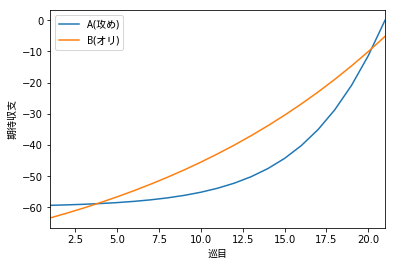
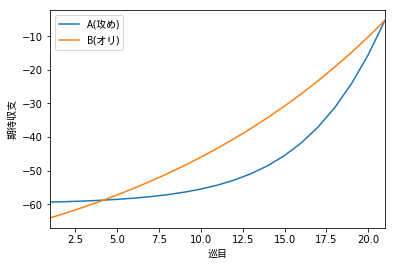
rebuilding site Thu Feb  8 18:52:48 JST 2018

diff --git a/posts/15/index.html b/posts/15/index.html
@@ -70,7 +70,7 @@
                     </h1>
                     <h2 class="headline">
                     Feb 7, 2018 14:09
-                    · 806 words
+                    · 811 words
                     · 2 minute read
                       <span class="tags">
                       
@@ -146,13 +146,13 @@
 <p>\begin{eqnarray}
   C_t &amp;=&amp; \begin{cases}
     r_1 \widetilde{W}_1 + (1 - r_1) \widetilde{p}_1 W_1 + (1 - r_1) (1 - \widetilde{p}_1) s A_t + (1 - r_1) (1 - \widetilde{p}_1) (1 - s) C_{t + 1} &amp; (1 \leq t \lt 21) \\<br />
-    0 &amp; (t = 21)
+    B_t &amp; (t = 21)
   \end{cases}
 \end{eqnarray}</p>
 
-<p>ただし \(w&rsquo;_{0, t+1}\) と \(\widetilde{w}&rsquo;_{0, t+1}\) はテンパイ時のパラメータである。この漸化式を解いて</p>
+<p>ただし \(w&rsquo;_{0, t+1}\) と \(\widetilde{w}&rsquo;_{0, t+1}\) はテンパイ時のパラメータである。この漸化式を解くと</p>
 
-<p>$$C_t = (1 - \phi^{21 - t})\frac{r_1 \widetilde{W}_1 + (1 - r_1) \widetilde{p}_1 W_1 + (1 - r_1) (1 - \widetilde{p}_1) s A_t}{1 - \phi}$$</p>
+<p>$$C_t = (1 - \phi^{21 - t})\frac{r_1 \widetilde{W}_1 + (1 - r_1) \widetilde{p}_1 W_1 + (1 - r_1) (1 - \widetilde{p}_1) s A_t}{1 - \phi} + \phi^{21 - t} B_{21}$$</p>
 
 <p>が得られる。ただし、 \(\phi = (1 - r_1) (1 - \widetilde{p}_1) (1 - s)\) である。</p>
 
